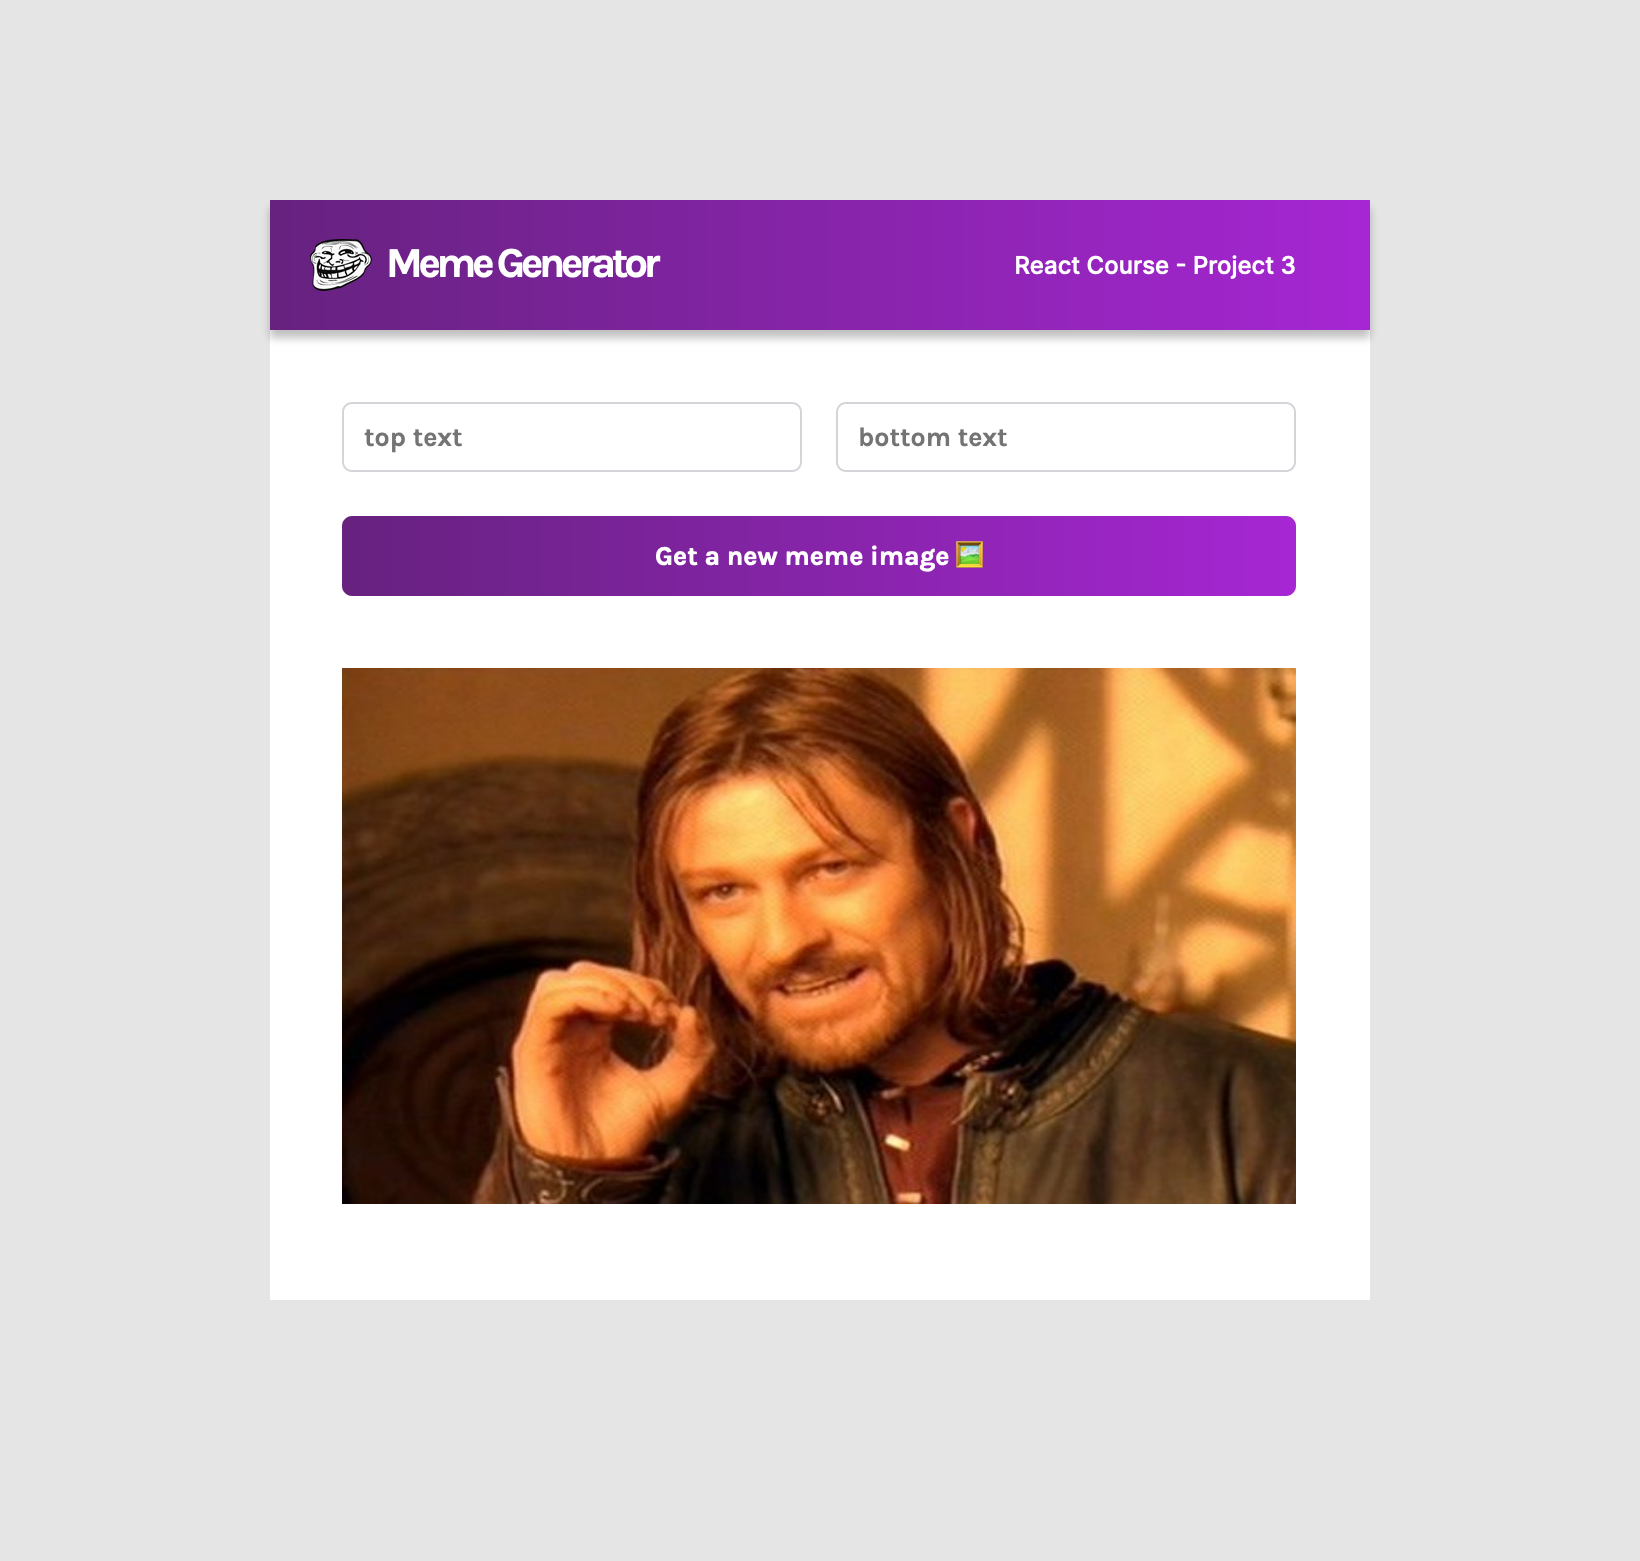
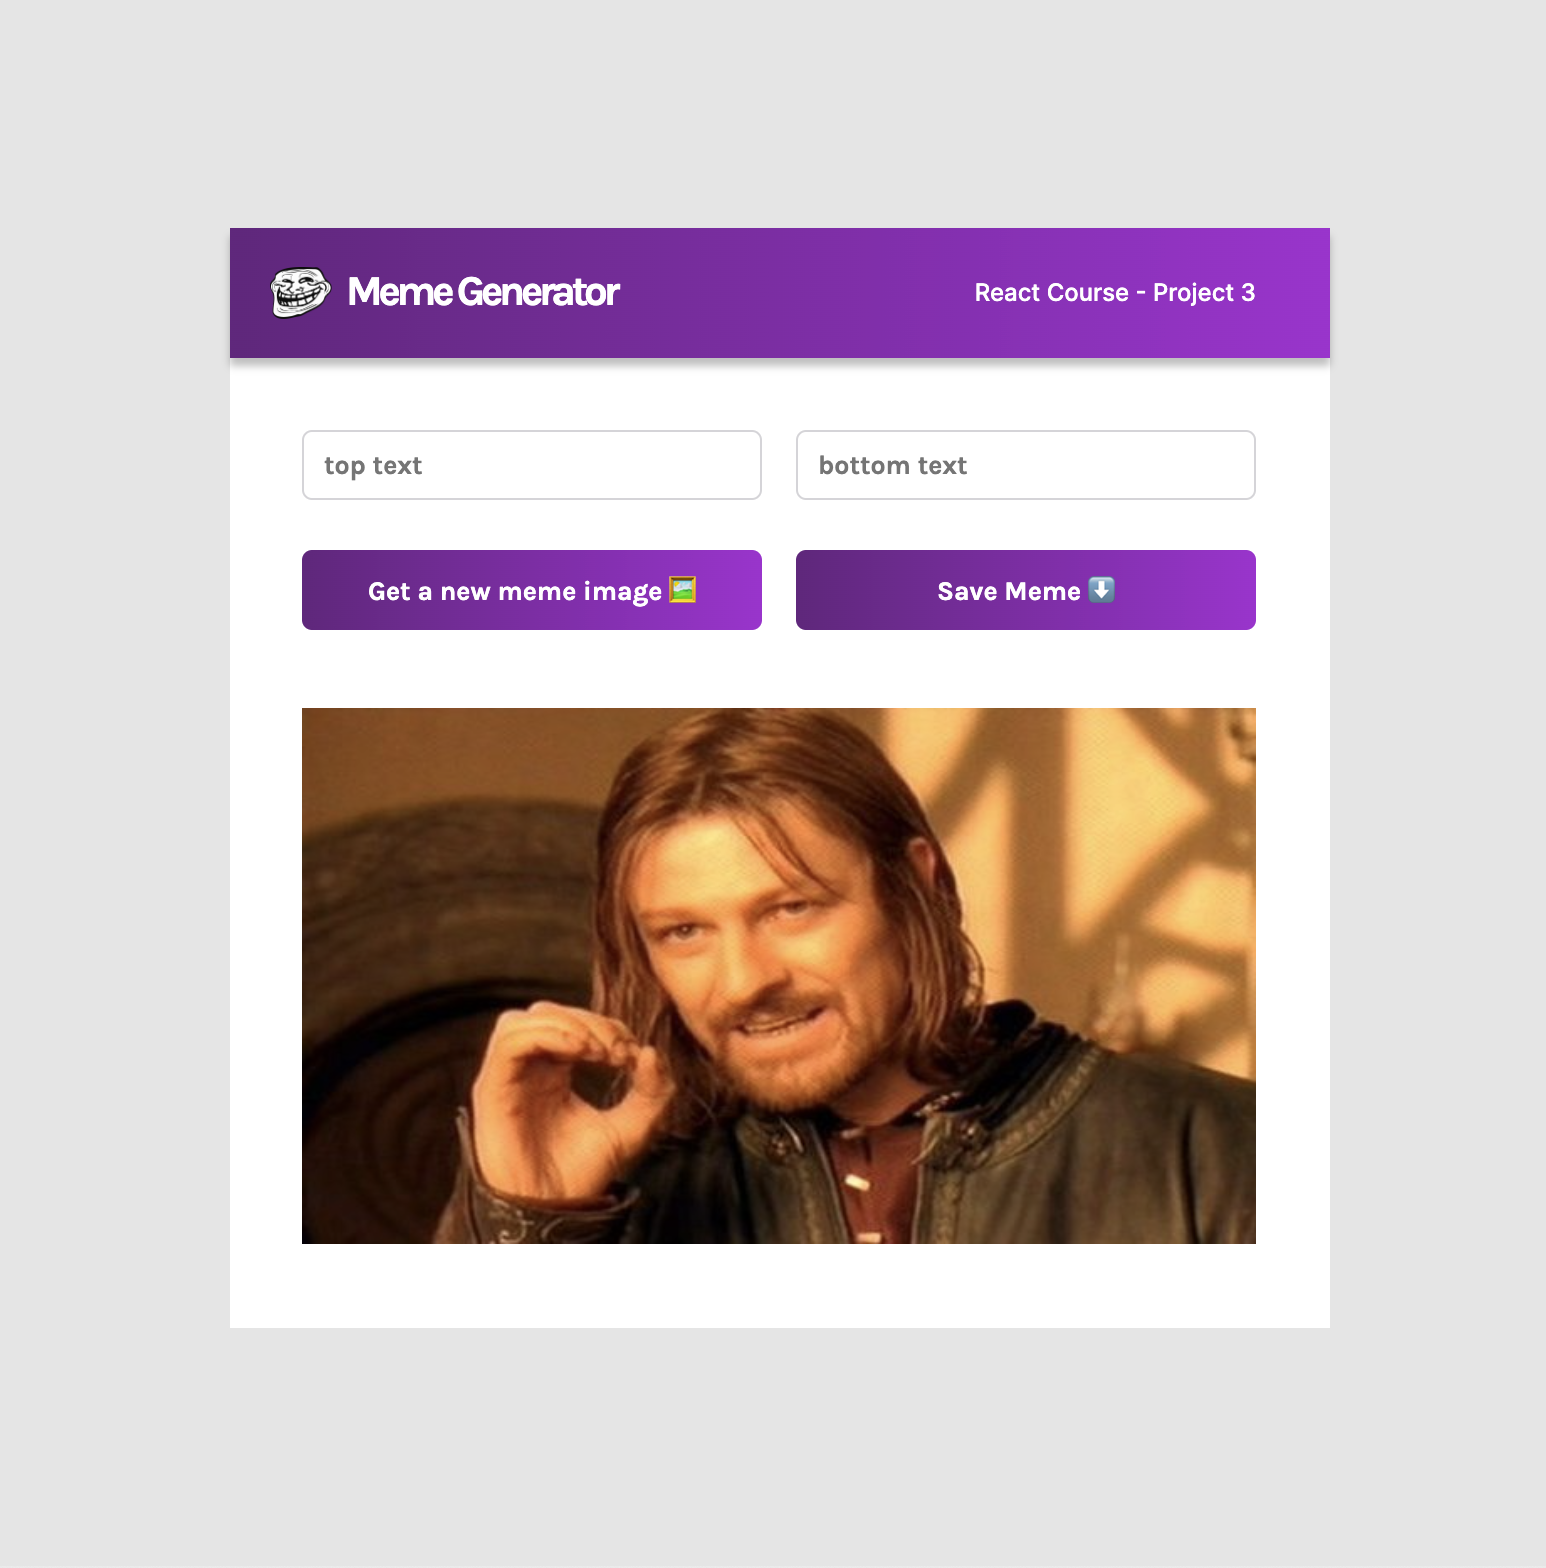
add save meme feature

Changed region(s): [[0.1242, 0.123, 0.8693, 0.861]]

diff --git a/src/components/Form.js b/src/components/Form.js
@@ -1,71 +1,110 @@
-import React from "react"
-import { useState, useEffect } from "react"
+import { saveAs } from "file-saver";
+import { useEffect, useRef, useState } from "react";
 
 const Form = () => {
-    const [memes, setMemes] = useState([])
-    const [formData, setFormData] = useState({
-        topText: "",
-        bottomText: "",
-        randomImg: "http://i.imgflip.com/1bij.jpg"
-    })
+  const [memes, setMemes] = useState([]);
+  const [formData, setFormData] = useState({
+    topText: "",
+    bottomText: "",
+    randomImg: "http://i.imgflip.com/1bij.jpg",
+  });
 
-    useEffect(() => {
-        fetch("https://api.imgflip.com/get_memes")
-            .then(res => res.json())
-            .then(data => setMemes(data.data.memes))
-    })
+  const canvasRef = useRef(null);
 
-    const handleChange = (e) => {
-        const {name, value} = e.target
-        setFormData(prevFormData => {
-            return {
-                ...prevFormData,
-                [name]: value 
-            }
-        })
-    }
+  useEffect(() => {
+    fetch("https://api.imgflip.com/get_memes")
+      .then((res) => res.json())
+      .then((data) => setMemes(data.data.memes));
+  }, []);
 
-    const getNewMeme = () => {
-        const randomNumber = Math.floor(Math.random() * memes.length)
-        setFormData(prevFormData => {
-            return {
-                ...prevFormData,
-                randomImg: memes[randomNumber].url
-            }
-        })
-    }
+  const handleChange = (e) => {
+    const { name, value } = e.target;
+    setFormData((prevFormData) => {
+      return {
+        ...prevFormData,
+        [name]: value,
+      };
+    });
+  };
 
-    return (
-        <main>
-            <div className="form">
-                <input 
-                    type="text" 
-                    placeholder="top text" 
-                    className="form--input"
-                    name="topText"
-                    value={formData.topText}
-                    onChange={handleChange} />
-                <input 
-                    type="text" 
-                    placeholder="bottom text" 
-                    className="form--input"
-                    name="bottomText"
-                    value={formData.bottomText}
-                    onChange={handleChange} />
-                <button className="form--button" id="get-meme-button" onClick={getNewMeme}>
-                    Get a new meme image 🖼
-                </button>
-                <button className="form--button" id="save-button">
-                    Save Meme
-                </button>
-                <div className="form--meme">
-                    <h3 className="meme--text top">{formData.topText}</h3>
-                    <img src={formData.randomImg} alt="meme img" className="meme--img"/>
-                    <h3 className="meme--text bottom">{formData.bottomText}</h3>
-                </div>
-            </div>
-        </main>
-    )
-}
+  const getNewMeme = () => {
+    const randomNumber = Math.floor(Math.random() * memes.length);
+    setFormData((prevFormData) => {
+      return {
+        ...prevFormData,
+        randomImg: memes[randomNumber].url,
+      };
+    });
+  };
 
-export default Form
+  const saveImage = () => {
+    const canvas = canvasRef.current;
+    const ctx = canvas.getContext("2d");
+    const img = new Image();
+    img.crossOrigin = "anonymous";
+    img.src = formData.randomImg;
+    img.addEventListener("load", () => {
+      canvas.width = img.width;
+      canvas.height = img.height;
+      ctx.clearRect(0, 0, canvas.width, canvas.height);
+      ctx.drawImage(img, 0, 0);
+      ctx.fillStyle = "white";
+      ctx.textAlign = "center";
+      ctx.font = "900 8vh Impact";
+      ctx.letterSpacing = "1px";
+      ctx.shadowColor = "black";
+      ctx.shadowOffsetX = 2;
+      ctx.shadowOffsetY = 2;
+      ctx.shadowBlur = 0;
+      ctx.shadowBlur = 2;
+      ctx.fillText(formData.topText.toUpperCase(), canvas.width / 2, 80);
+      ctx.fillText(
+        formData.bottomText.toUpperCase(),
+        canvas.width / 2,
+        canvas.height - 30
+      );
+      canvas.toBlob((blob) => saveAs(blob, "meme.jpg"));
+    });
+  };
+
+  return (
+    <main>
+      <div className="form">
+        <input
+          type="text"
+          placeholder="top text"
+          className="form--input"
+          name="topText"
+          value={formData.topText}
+          onChange={handleChange}
+        />
+        <input
+          type="text"
+          placeholder="bottom text"
+          className="form--input"
+          name="bottomText"
+          value={formData.bottomText}
+          onChange={handleChange}
+        />
+        <button
+          className="form--button"
+          id="get-meme-button"
+          onClick={getNewMeme}
+        >
+          Get a new meme image 🖼
+        </button>
+        <button className="form--button" id="save-button" onClick={saveImage}>
+          Save Meme ⬇
+        </button>
+        <div className="form--meme">
+          <h3 className="meme--text top">{formData.topText}</h3>
+          <img src={formData.randomImg} alt="meme img" className="meme--img" />
+          <h3 className="meme--text bottom">{formData.bottomText}</h3>
+        </div>
+        <canvas ref={canvasRef} id="canvas"></canvas>
+      </div>
+    </main>
+  );
+};
+
+export default Form;

diff --git a/src/components/Header.js b/src/components/Header.js
@@ -1,13 +1,15 @@
 import React from "react";
+
 import logo from "../images/logo.png";
 
-const Header = () =>
-    <header className="header">
-        <div className="header--container">
-            <img src={logo} alt="logo troll face" className="header--logo"/>
-            <h2 className="header--title">Meme Generator</h2>
-        </div>
-        <h4 className="header--description">React Course - Project 3</h4>
-    </header>
+const Header = () => (
+  <header className="header">
+    <div className="header--container">
+      <img src={logo} alt="logo troll face" className="header--logo" />
+      <h2 className="header--title">Meme Generator</h2>
+    </div>
+    <h4 className="header--description">React Course - Project 3</h4>
+  </header>
+);
 
-export default Header
+export default Header;

diff --git a/src/App.css b/src/App.css
@@ -5,16 +5,22 @@
 }
 
 body {
+  width: 100vw;
+  height: 100%;
+  min-height: 100vh;
+  overflow: hidden;
   background-color: #E5E5E5;
   color: white;
   font-family: 'Karla', sans-serif;
+  display: flex;
+  justify-content: center;
+  align-items: center;
 }
 
 .App {
   width: 550px;
   height: 550px;
   background-color: white;
-  margin: 100px auto;
 }
 
 .header {
@@ -57,7 +63,7 @@ body {
 
 .form {
   width: 550px;
-  height: 485px;
+  height: 1000px/*485px*/;
   padding: 36px 37px 55px 36px;
   display: grid;
   grid-template-columns: 1fr 1fr;
@@ -141,4 +147,10 @@ body {
 
 .bottom {
   bottom: 18px;
+}
+
+#canvas {
+  width: 477px;
+  height: 268px;
+  display: none;
 }

diff --git a/src/App.js b/src/App.js
@@ -1,12 +1,15 @@
-import React from "react"
-import Header from "./components/Header"
-import Form from "./components/Form"
-import './App.css'
+import React from "react";
 
-const App = () => 
+import Form from "./components/Form";
+import Header from "./components/Header";
+
+import "./App.css";
+
+const App = () => (
   <div className="App">
     <Header />
     <Form />
   </div>
+);
 
-export default App
+export default App;

diff --git a/README.md b/README.md
@@ -1,12 +1,6 @@
 # Scrimba - Learn React Project 3 Meme Generator
 
-This is a solution to the [Learn React Project 3 Meme Generator](https://www.figma.com/file/MoLwFPHNHJVrzdFurxHzNV/Meme-Generator?node-id=0%3A1&t=9pmbaPcIxUHE1t0e-0). 
-
-## About Scrimba
-
-At Scrimba our goal is to create the best possible coding school at the cost of a gym membership! 💜
-If we succeed with this, it will give anyone who wants to become a software developer a realistic shot at succeeding, regardless of where they live and the size of their wallets 🎉
-The Frontend Developer Career Path aims to teach you everything you need to become a Junior Developer, or you could take a deep-dive with one of our advanced courses 🚀
+This is a solution to the [Learn React Project 3 Meme Generator](https://www.figma.com/file/MoLwFPHNHJVrzdFurxHzNV/Meme-Generator?node-id=0%3A1&t=9pmbaPcIxUHE1t0e-0).
 
 ## About Challenge
 
@@ -26,79 +20,22 @@ The Frontend Developer Career Path aims to teach you everything you need to beco
 - Flexbox
 - Grid
 
+### Helpful Resources
+
+- [<a> download attribute](https://developer.mozilla.org/en-US/docs/Web/SVG/Element/a) - "download only works for sanme origin URLs".
+- [FileSaver.js](https://github.com/eligrey/FileSaver.js)
+- [Allowing cross-origin use of images and canvas](https://developer.mozilla.org/en-US/docs/Web/HTML/CORS_enabled_image)
+- [<canvas>: The Graphics Canvas element](https://developer.mozilla.org/en-US/docs/Web/HTML/Element/canvas)
+- [HTMLImageElement: Image() constructor](https://developer.mozilla.org/en-US/docs/Web/API/HTMLImageElement/Image)
+- [CSS image()](https://developer.mozilla.org/en-US/docs/Web/CSS/image/image)
+- [Using React Hooks with canvas](https://koenvangilst.nl/blog/react-hooks-with-canvas)
+- [transform text to uppercase in canvas?](https://stackoverflow.com/questions/7046597/transform-text-to-uppercase-in-canvas)
+
 ### Author
 
 - Website - [Zun Liang](https://zun-liang.github.io/)
 - Frontend Mentor - [@zun-liang](https://www.frontendmentor.io/profile/zun-liang)
 
+### Acknowledgements
 
-# Getting Started with Create React App
-
-This project was bootstrapped with [Create React App](https://github.com/facebook/create-react-app).
-
-## Available Scripts
-
-In the project directory, you can run:
-
-### `npm start`
-
-Runs the app in the development mode.\
-Open [http://localhost:3000](http://localhost:3000) to view it in your browser.
-
-The page will reload when you make changes.\
-You may also see any lint errors in the console.
-
-### `npm test`
-
-Launches the test runner in the interactive watch mode.\
-See the section about [running tests](https://facebook.github.io/create-react-app/docs/running-tests) for more information.
-
-### `npm run build`
-
-Builds the app for production to the `build` folder.\
-It correctly bundles React in production mode and optimizes the build for the best performance.
-
-The build is minified and the filenames include the hashes.\
-Your app is ready to be deployed!
-
-See the section about [deployment](https://facebook.github.io/create-react-app/docs/deployment) for more information.
-
-### `npm run eject`
-
-**Note: this is a one-way operation. Once you `eject`, you can't go back!**
-
-If you aren't satisfied with the build tool and configuration choices, you can `eject` at any time. This command will remove the single build dependency from your project.
-
-Instead, it will copy all the configuration files and the transitive dependencies (webpack, Babel, ESLint, etc) right into your project so you have full control over them. All of the commands except `eject` will still work, but they will point to the copied scripts so you can tweak them. At this point you're on your own.
-
-You don't have to ever use `eject`. The curated feature set is suitable for small and middle deployments, and you shouldn't feel obligated to use this feature. However we understand that this tool wouldn't be useful if you couldn't customize it when you are ready for it.
-
-## Learn More
-
-You can learn more in the [Create React App documentation](https://facebook.github.io/create-react-app/docs/getting-started).
-
-To learn React, check out the [React documentation](https://reactjs.org/).
-
-### Code Splitting
-
-This section has moved here: [https://facebook.github.io/create-react-app/docs/code-splitting](https://facebook.github.io/create-react-app/docs/code-splitting)
-
-### Analyzing the Bundle Size
-
-This section has moved here: [https://facebook.github.io/create-react-app/docs/analyzing-the-bundle-size](https://facebook.github.io/create-react-app/docs/analyzing-the-bundle-size)
-
-### Making a Progressive Web App
-
-This section has moved here: [https://facebook.github.io/create-react-app/docs/making-a-progressive-web-app](https://facebook.github.io/create-react-app/docs/making-a-progressive-web-app)
-
-### Advanced Configuration
-
-This section has moved here: [https://facebook.github.io/create-react-app/docs/advanced-configuration](https://facebook.github.io/create-react-app/docs/advanced-configuration)
-
-### Deployment
-
-This section has moved here: [https://facebook.github.io/create-react-app/docs/deployment](https://facebook.github.io/create-react-app/docs/deployment)
-
-### `npm run build` fails to minify
-
-This section has moved here: [https://facebook.github.io/create-react-app/docs/troubleshooting#npm-run-build-fails-to-minify](https://facebook.github.io/create-react-app/docs/troubleshooting#npm-run-build-fails-to-minify)
+I would like to extend my sincere appreciation to [@gurvirbaraich](https://github.com/gurvirbaraich), whose insightful suggestion led to the implementation of the "SAVE MEME" button in this project. Although I chose to add this feature by myself for practice purposes, his keen observation and proposed solution would have greatly improved the challenge's quality. Please take a look at his [solution](https://github.com/zun-liang/meme-generator/issues/1)!
